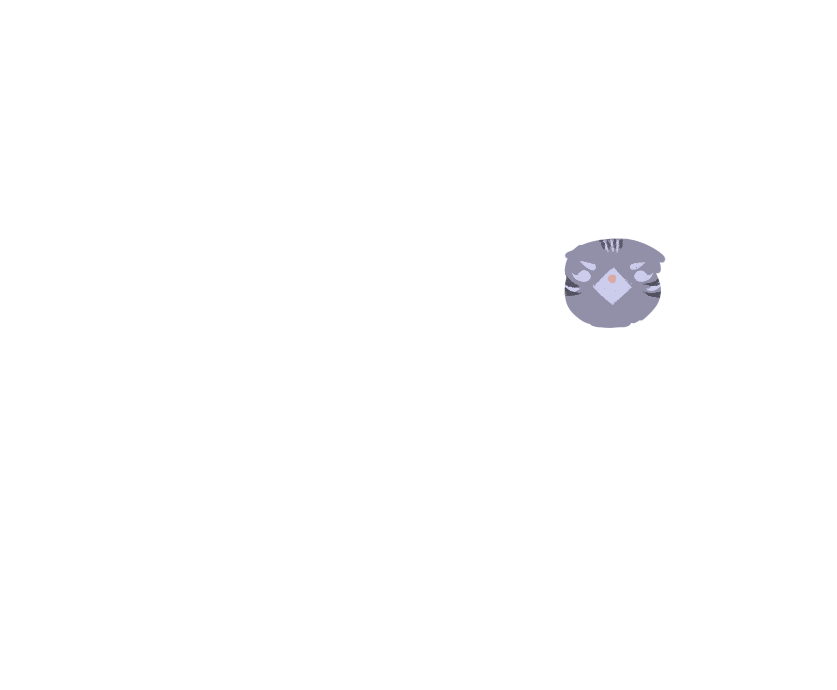
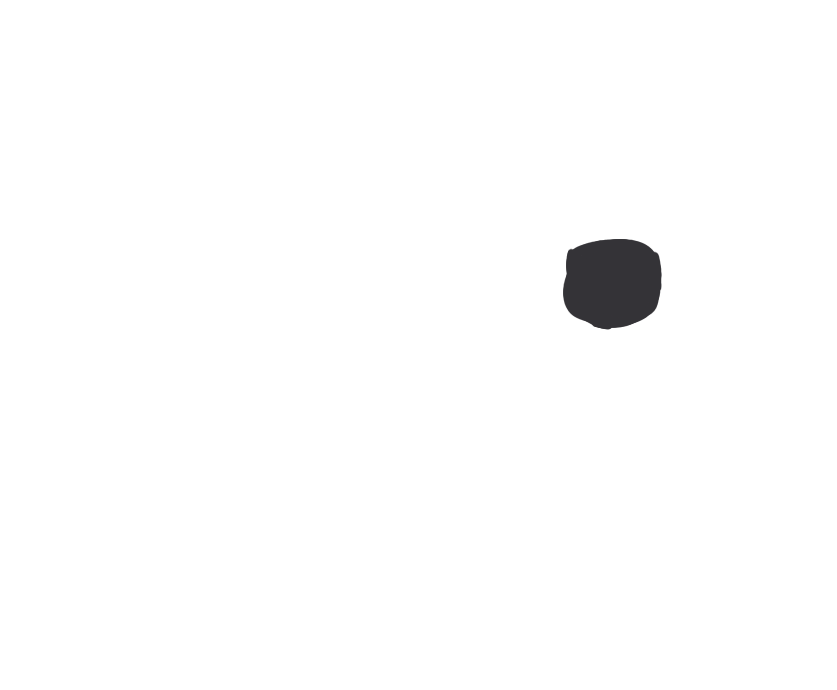
rotating dvd

Changed region(s): [[0.6523, 0.3348, 0.8076, 0.487]]

diff --git a/display/scripts/helpers/characterHelpers.js b/display/scripts/helpers/characterHelpers.js
@@ -15,7 +15,7 @@ const jazCollarLine = document.createElement("img")
 const pinoHelmet = document.createElement("img")
 pinoHelmet.style.zIndex = "94"
 
-const assetPartEls = [jazBody, jazCollar, jazCollarLine, jazFaceLine, jazFace, jazHat, pinoBodyLine, pinoRobe, pinoFaceLine, pinoHands, pinoFace, pinoHat]
+const assetPartEls = [jazBody, jazCollar, jazCollarLine, jazFaceLine, jazFace, jazHat, pinoBodyLine, pinoRobe, pinoFaceLine, pinoHands, pinoFace, pinoHat, pinoHelmet]
 const assetPartStrs = ["jazBody", "jazCollar", "jazCollarLine", "jazFaceLine", "jazFace", "jazHat", "pinoBodyLine", "pinoRobe", "pinoFaceLine", "pinoHands", "pinoFace", "pinoHat"]
 
 defaultZIndex()
@@ -84,7 +84,7 @@ async function toggleAnimation(animation) {
             el.style.transform = "scaleX(1)"
         }
         return
-    }   if (animation === "dvd") {
+    } if (animation === "dvd") {
         jazFaceLine.src = `/display/assets/characters/jaz/faceline/dvd/${characters.j.faceline}.png`
         jazHat.src = `/display/assets/characters/jaz/hat/dvd/${characters.j.hat}${currentLocation.name.toLowerCase().includes("ocean") ? "ocean" : "space"}.png` //WORK ON ME
         jazCollarLine.src = `/display/assets/characters/jaz/collarline/dvd/collarLine.png`
@@ -103,7 +103,7 @@ async function toggleAnimation(animation) {
         pinoHelmet.src = `/display/assets/characters/pino/helmet/${currentLocation.name.toLowerCase().includes("ocean") ? "ocean" : "space"}.png`
         pinoDiv.appendChild(pinoHelmet)
         return
-    } else if(animation === "froggy"){
+    } else if (animation === "froggy") {
         pinoFaceLine.remove()
         pinoHands.remove()
         pinoBodyLine.style.zIndex = "93"
@@ -117,7 +117,7 @@ async function toggleAnimation(animation) {
         jazBody.style.zIndex = "96"//Body Color
         jazFace.style.zIndex = "95"//Chair
         pinoHelmet.remove()
-    }else{
+    } else {
         pinoDiv.appendChild(pinoHands)
         pinoDiv.appendChild(pinoFaceLine)
         jazDiv.appendChild(jazFaceLine)
@@ -125,7 +125,7 @@ async function toggleAnimation(animation) {
         pinoHelmet.remove()
 
     }
-    
+
     for (let i = 0; i < assetPartEls.length; i++) {
         const part = assetPartStrs[i]; // e.g., "jazBody"
         const character = part.startsWith("jaz") ? "jaz" : "pino";
@@ -271,14 +271,14 @@ function hopChar(char) {
 }
 
 
-function defaultZIndex(){
+function defaultZIndex() {
     jazFaceLine.style.zIndex = "100"
     jazHat.style.zIndex = "99"
     jazCollarLine.style.zIndex = "98"
     jazCollar.style.zIndex = "97"
     jazBody.style.zIndex = "96"
     jazFace.style.zIndex = "95"
-    
+
     pinoFaceLine.style.zIndex = "94"
     pinoBodyLine.style.zIndex = "93"
     pinoRobe.style.zIndex = "92"
@@ -291,14 +291,18 @@ function defaultZIndex(){
 function shakeChar(char, time) {
     switch (char) {
         case "pino":
-pinoDiv.classList.add("shaking")
-setTimeout(()=>{pinoDiv.classList.remove("shaking")},time)
-break;
-case "jaz":
-                jazDiv.classList.add("shaking")
-                setTimeout(()=>{jazDiv.classList.remove("shaking")},time)
+            pinoDiv.classList.add("shaking")
+            setTimeout(() => { pinoDiv.classList.remove("shaking") }, time)
+            break;
+        case "jaz":
+            jazDiv.classList.add("shaking")
+            setTimeout(() => { jazDiv.classList.remove("shaking") }, time)
             break;
         case "duo":
+            shakeChar("pino", time)
+            shakeChar("jaz", time)
             break;
+        case "npc":
+            break
     }
 }

diff --git a/display/style.css b/display/style.css
@@ -84,14 +84,16 @@ body {
     top: 0;
     transition: transform 500ms;
 }
-.char-div{
-background-color: black;
+
+.char-div {
+    background-color: black;
 }
 
-.black-mask{
+.black-mask {
     mix-blend-mode: multiply;
     filter: brightness(0);
 }
+
 #pino-char,
 #jaz-char {
     position: absolute;
@@ -99,23 +101,26 @@ background-color: black;
 
 
 #pino-char img {
-    transform-origin: 200px;
+    transform-origin: 200px center;
+    /* border: 1px solid red */
     /* Flips around the vertical line at 200px from the left */
 }
 
 #jaz-char img {
-    transform-origin: 535px;
+    transform-origin: 535px center;
+    /* border: 1px solid red */
     /* Flips around the vertical line at 535px from the left */
 }
 
+
 /* CHARACTER REVEAL */
-.skin-asset-bg{
+.skin-asset-bg {
     z-index: 3;
     top: 75vh !important;
     transition: top 1000ms;
 }
 
-.skin-asset{
+.skin-asset {
     z-index: 4;
     top: 75vh !important;
     transition: top 1000ms;
@@ -192,7 +197,7 @@ background-color: black;
     animation: fadeOut 1s ease-in-out forwards;
 }
 
-.shaking{
+.shaking {
     animation: shake 100ms linear infinite;
 }
 
@@ -200,16 +205,20 @@ background-color: black;
     0% {
         transform: translateX(0);
     }
+
     25% {
         transform: translateX(10px);
     }
-    50%{
+
+    50% {
         transform: translateX(0);
 
     }
+
     75% {
         transform: translateX(-10px);
     }
+
     100% {
         transform: translateX(0);
     }
@@ -336,6 +345,8 @@ background-color: black;
     object-fit: contain;
     animation: rotate360 15s linear infinite;
     transition: transform 0ms;
+    transform-origin: 0 !important;
+
 }
 
 .jaz-dvd img {
@@ -345,6 +356,7 @@ background-color: black;
     object-fit: contain;
     animation: rotate360 12s linear infinite;
     transition: transform 0ms;
+    transform-origin: 0 !important
 }
 
 
@@ -434,7 +446,7 @@ background-color: black;
     /* background-color: rgb(175, 145, 189); */
 }
 
-#vote-prompt{
+#vote-prompt {
     z-index: 999;
 }
 
@@ -499,6 +511,11 @@ background-color: black;
 }
 
 @keyframes rotate360 {
-    from { transform: rotate(0deg); }
-    to { transform: rotate(360deg); }
-  }
+    from {
+        transform: rotate(0deg);
+    }
+
+    to {
+        transform: rotate(360deg);
+    }
+}

diff --git a/display/scripts/helpers/dvdBounce.js b/display/scripts/helpers/dvdBounce.js
@@ -5,14 +5,17 @@ function dvdBounce() {
   const container = document.getElementById("dvd-container");
   const sprites = document.querySelectorAll(".char-div");
 
+  const vw = window.innerWidth;
+  const vh = window.innerHeight;
   sprites.forEach((sprite) => {
     if (sprite.id === "pino-char") {
-      sprite.style.left = "80vw";
-      sprite.style.top = "50vh";
+
+      sprite.style.left = `${0.8 * vw}px`;
+      sprite.style.top = `${0.5 * vh}px`;
       sprite.classList.add("pino-dvd");
     } else {
-      sprite.style.left = "100px";
-      sprite.style.top = "100px";
+      sprite.style.left = `${0.1 * vw}px`;
+      sprite.style.top = `${0.1 * vh}px`;
       sprite.classList.add("jaz-dvd");
     }
 
@@ -31,27 +34,13 @@ function dvdBounce() {
       const leftBoundary = left + dx;
       const rightBoundary = left + dx + spriteWidth;
 
-      if (sprite.id === "pino-char") {
-        if (
-          leftBoundary < 0 ||
-          leftBoundary + spriteWidth / 2 > containerWidth
-        ) {
-          dx = -dx;
-        }
-      } else if (sprite.id === "jaz-char") {
-        if (
-          rightBoundary - spriteWidth / 2 < 0 ||
-          rightBoundary > containerWidth
-        ) {
-          dx = -dx;
-        }
-      } else {
-        if (leftBoundary < 0 || rightBoundary > containerWidth) {
-          dx = -dx;
-        }
+
+
+      if (leftBoundary - 100 < 0 || rightBoundary + 100 > containerWidth) {
+        dx = -dx;
       }
 
-      if (top + dy < 0 || top + dy + spriteHeight > containerHeight) {
+      if (top + dy < 0 || top + dy + spriteHeight + 100 > containerHeight - 200) {
         dy = -dy;
       }
 
@@ -60,7 +49,6 @@ function dvdBounce() {
 
       sprite.style.left = `${left}px`;
       sprite.style.top = `${top}px`;
-      console.log(inDVD)
       if (inDVD) {
         requestAnimationFrame(animate);
       } else {

diff --git a/mobile/scripts/helpers/vote.js b/mobile/scripts/helpers/vote.js
@@ -75,12 +75,12 @@ function flashOnce(voteEls) {
 }
 
 const skinChoices = {
-    pColor: ["pino/color/A", "pino/color/B", "Pick your favorite cat"],
-    pHat: ["pino/hat/A", "pino/hat/B", "Pick between these patterns"],
-    pDevice: ["pino/device/A", "pino/device/B", "????????"],
-    pRobe: ["pino/robe/A", "pino/robe/B", "Choose your favorite color"],
-    jColor: ["jaz/color/A", "jaz/color/B", "Choose your favorite cat"],
-    jCollar: ["jaz/collar/A", "jaz/collar/B", "???What color collar???"],
-    jHat: ["jaz/hat/A", "jaz/hat/B", " ??? 2 or 4 ????"],
-    jDevice: ["jaz/device/A", "jaz/device/B", "Which is more annoying?"]
+    pColor: ["pino/color/A", "pino/color/B", "Pick a cat"],
+    pHat: ["pino/hat/A", "pino/hat/B", "Which pattern?"],
+    pDevice: ["pino/device/A", "pino/device/B", "Choose one"],
+    pRobe: ["pino/robe/A", "pino/robe/B", "Green or purple?"],
+    jColor: ["jaz/color/A", "jaz/color/B", "Pick a cat"],
+    jCollar: ["jaz/collar/A", "jaz/collar/B", "Which one?"],
+    jHat: ["jaz/hat/A", "jaz/hat/B", "Four or Two?"],
+    jDevice: ["jaz/device/A", "jaz/device/B", "Choose a sound"]
 }

diff --git a/display/scripts/helpers/voteHelpers.js b/display/scripts/helpers/voteHelpers.js
@@ -1,5 +1,3 @@
-//need to get vote and b images or folder names, need vote banner text
-
 const flashTime = 250
 
 const skinChoices = {
@@ -61,7 +59,7 @@ function promptVote(mainEl, extras, data, type) {
             }
             break;
         case "skin":
-//CHARACTER SELECT BACKGROUND
+            //CHARACTER SELECT BACKGROUND
             break
     }
     // setTimeout(() => { document.getElementById("vote-prompt").style.top = "0px" }, 10)

diff --git a/display/html/explainSpace.html b/display/html/explainSpace.html
@@ -1,2 +1,6 @@
 <div id="dvd-container">
+    <svg id="tether-line" width="100%" height="100%">
+        <line id="tether" stroke="black" stroke-width="2" />
+    </svg>
+
 </div>
